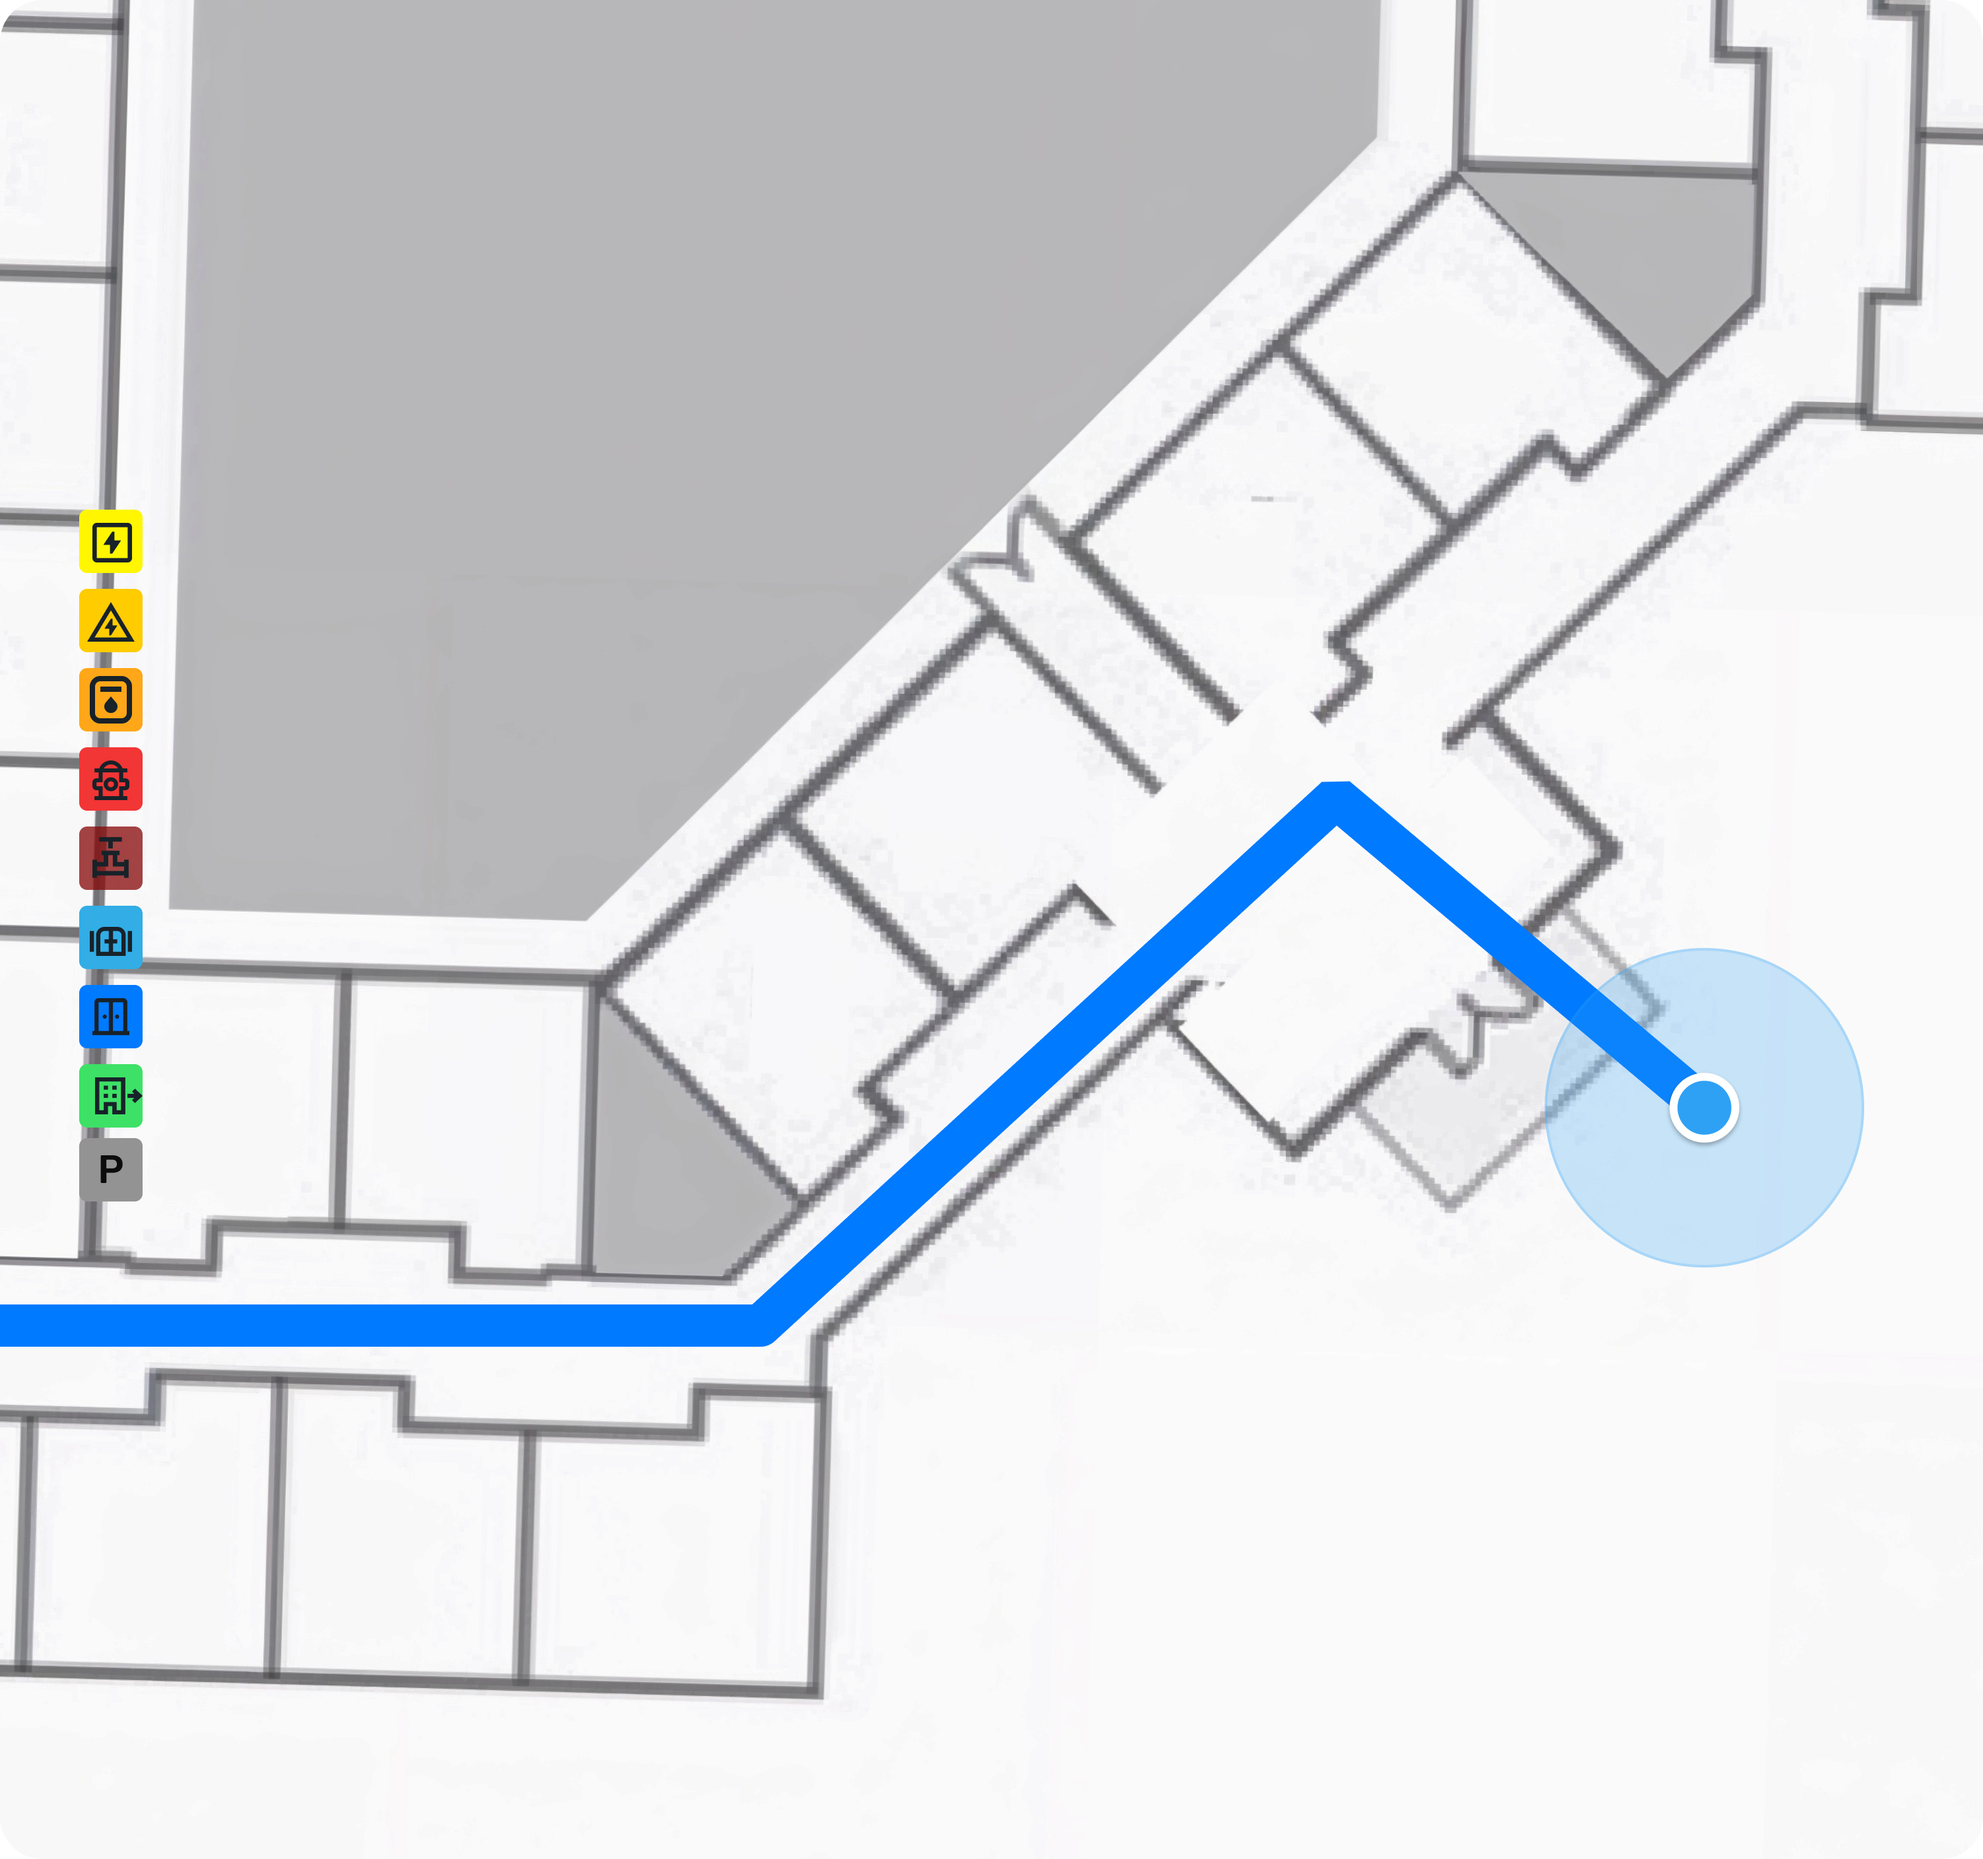
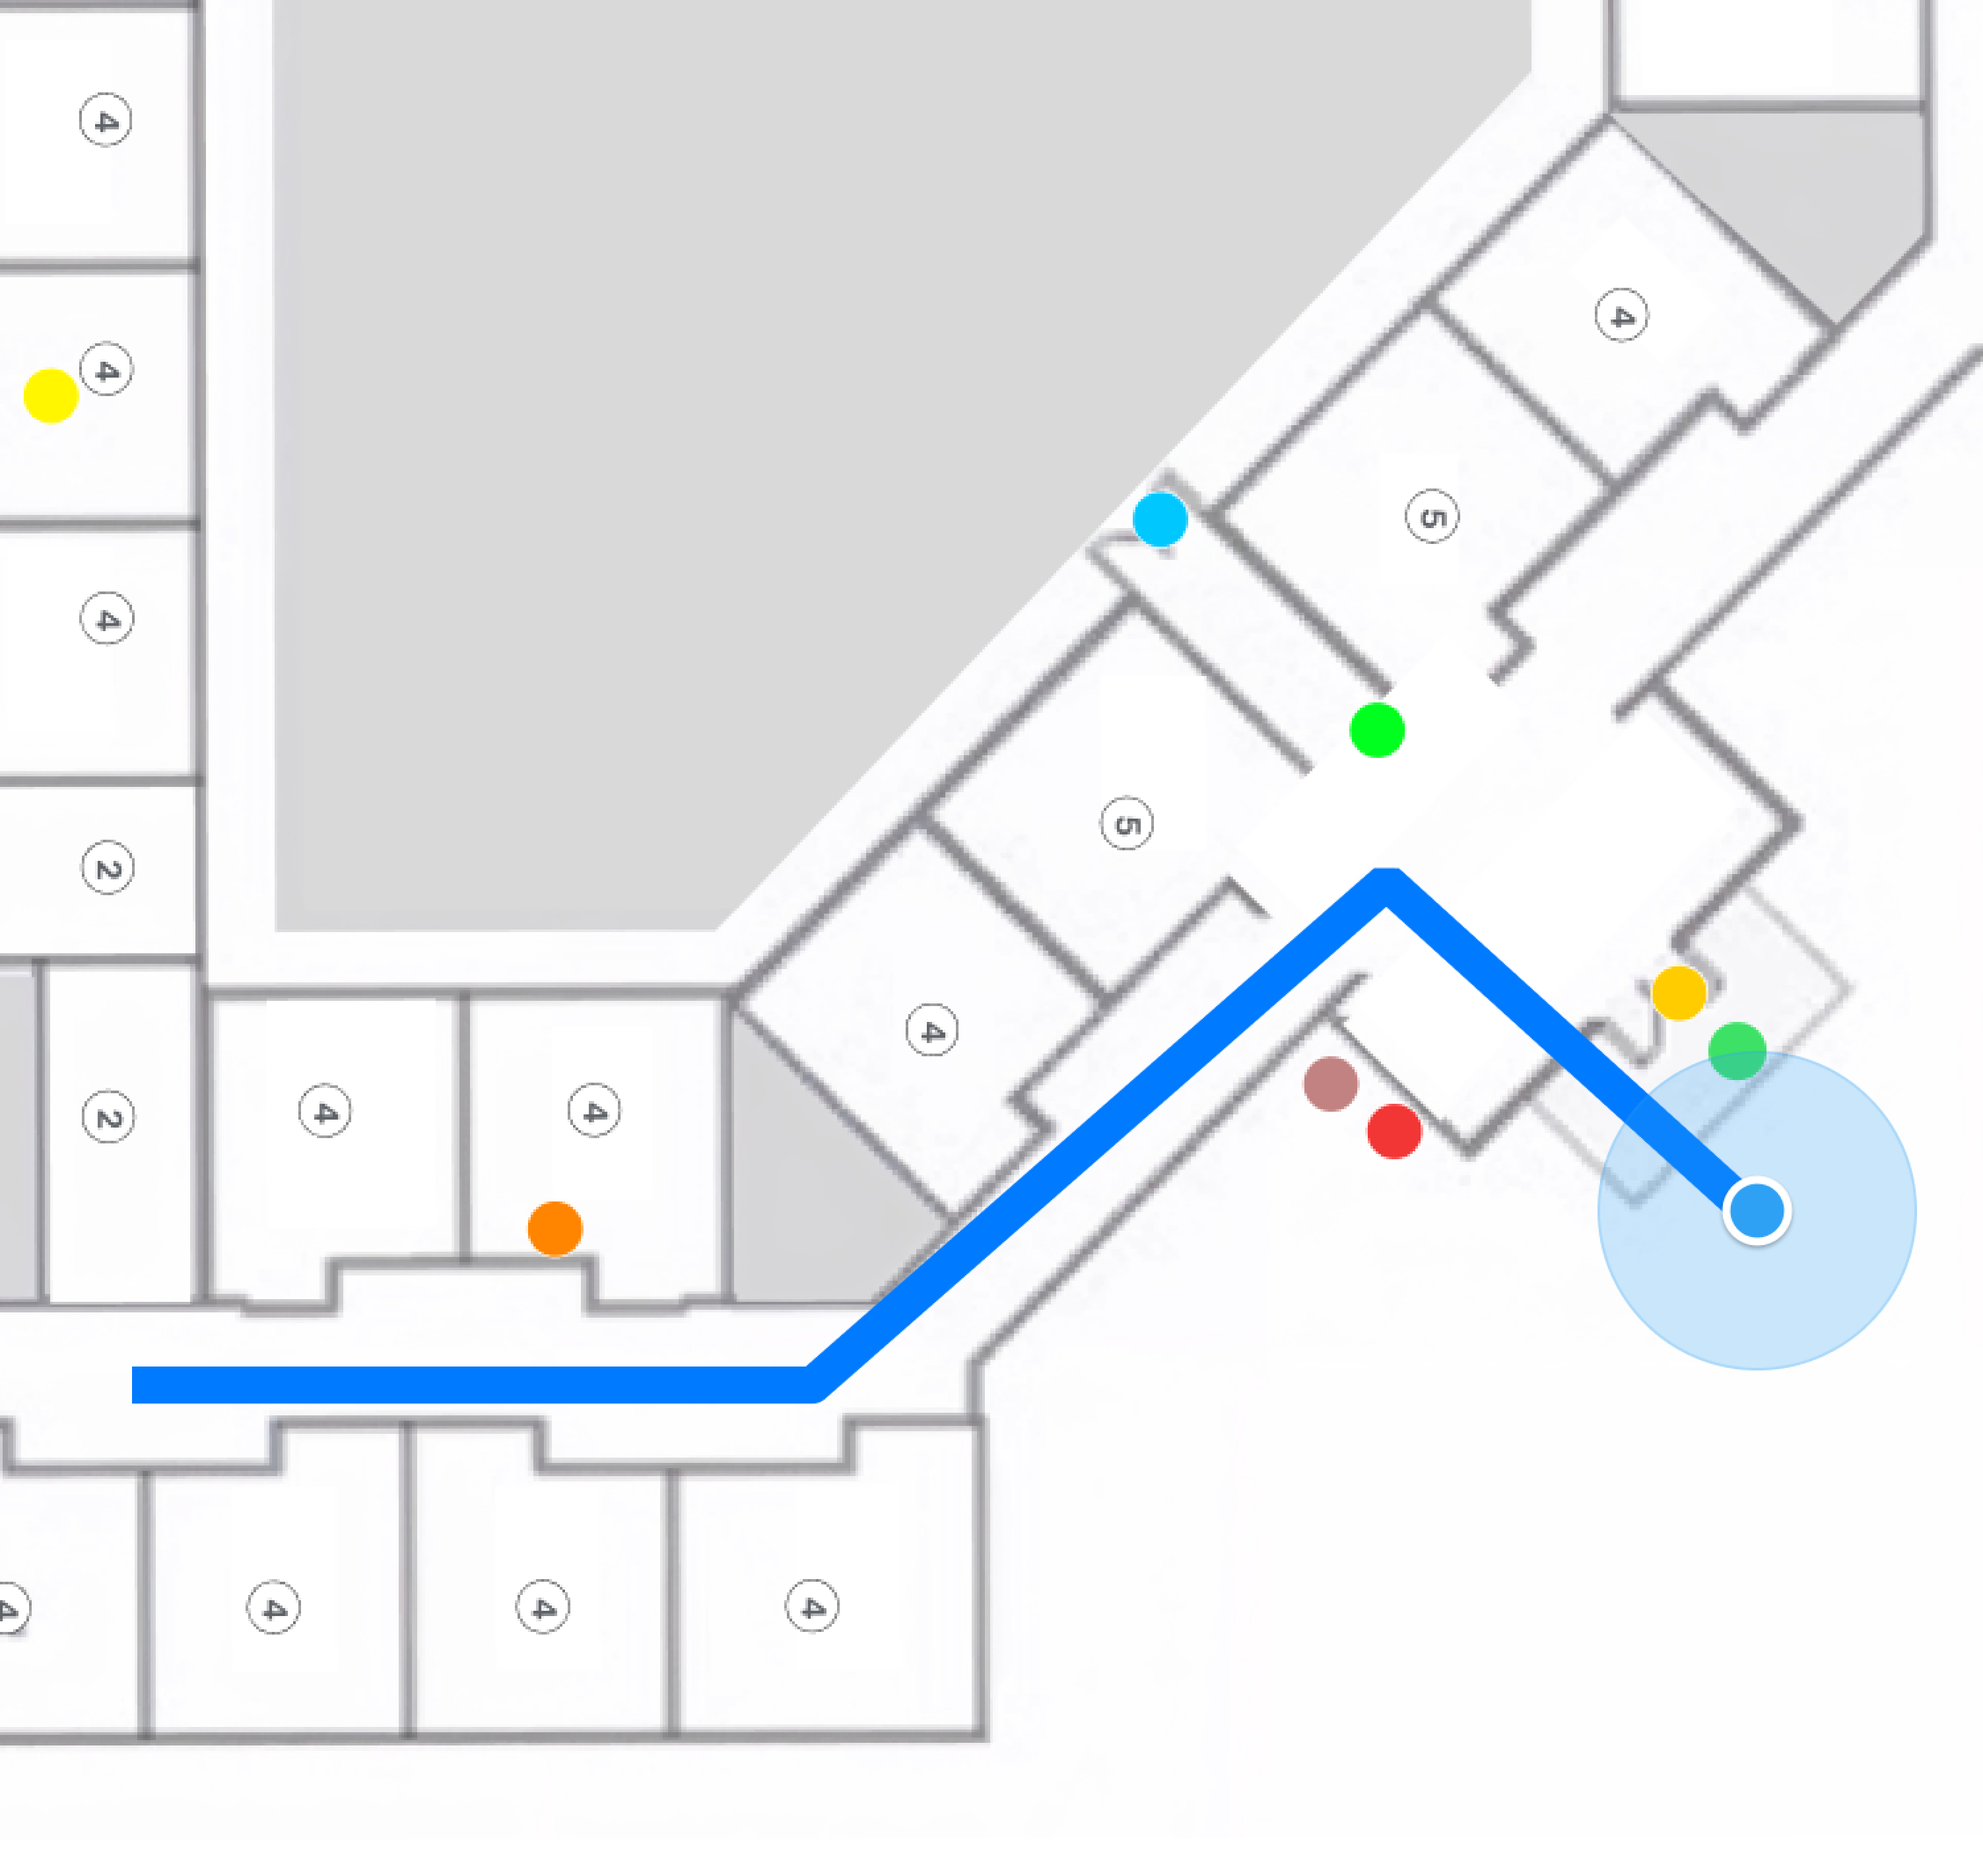
הוספת מספר אסירים בתאים

diff --git a/src/components/Map.jsx b/src/components/Map.jsx
@@ -86,9 +86,10 @@ const Map = ({ setReports, setHighlighted, isWaringOpoup }) => {
   const [taimList, setTaimList] = useState(TaimLst);
   const [locationMarker, setLocationMarker] = useState(null);
   const [zoomMap, setZoomMap] = useState(false);
+  const [polilineLst, setPolilineLst] = useState([]);
 
   const mapRef = useRef();
- 
+
 
   const Parking = ({ position, index, iconKey }) => {
 
@@ -188,7 +189,7 @@ const Map = ({ setReports, setHighlighted, isWaringOpoup }) => {
         if (activeAction && activeAction.activeIcon) {
           const newMarker = event.latlng;
           console.log(event.latlng);
-    
+
           const icon = L.divIcon({
             className: "custom",
             html: `<div class="action-mark"><img src="${activeAction.activeIcon}" style=" height: 20px;, width:20px;"  /></div>`, // חניה שמאלית למטה
@@ -201,11 +202,13 @@ const Map = ({ setReports, setHighlighted, isWaringOpoup }) => {
             timeStyle: 'short'
           });
 
-          const newReport = { id: Date.now(),
-             text: activeAction.reportText, 
-             isRecording: false, 
-             profilePic: activeAction.profilePic ,
-             time: timeSent }
+          const newReport = {
+            id: Date.now(),
+            text: activeAction.reportText,
+            isRecording: false,
+            profilePic: activeAction.profilePic,
+            time: timeSent
+          }
 
           setReports((prevReports) => [
             ...prevReports,
@@ -221,9 +224,9 @@ const Map = ({ setReports, setHighlighted, isWaringOpoup }) => {
     });
   };
 
- // הנקודה של האש 
+  // הנקודה של האש 
   const [activeMessage, setActiveMessage] = useState(null)
-  const [popupMessage, setPopupMessage] = useState(""); 
+  const [popupMessage, setPopupMessage] = useState("");
 
   const handleOnClickOnParking = (parkingName) => {
     console.log(`Clicked on: ${parkingName}`);
@@ -231,7 +234,7 @@ const Map = ({ setReports, setHighlighted, isWaringOpoup }) => {
 
     const { message, arrow } = parkingMessages[parkingName]; // נשלוף גם את ההודעה וגם את סוג החץ
     setActiveMessage(message);
-    setPopupMessage({ message, arrow }); 
+    setPopupMessage({ message, arrow });
 
     if (activeRoute === parkingName) {
       setActiveRoute(null);
@@ -248,13 +251,19 @@ const Map = ({ setReports, setHighlighted, isWaringOpoup }) => {
 
       setActiveRoute(parkingName);
       setLocationMarker(route[0]);
-      if (route && mapRef.current) {
-        const map = mapRef.current;
-        const polyline = L.polyline(route.map((point) => [point.lat, point.lng]), {
-          color: '#007AFF',
-          weight: 5,
-          opacity: 0.7,
-        }).addTo(map);
+      if (route && mapRef.current && !zoomMap) {
+        const polyline = {
+          positions: route.map((point) => [point.lat, point.lng]),
+          pathOptions:
+          {
+            color: '#007AFF',
+            weight: 5,
+            opacity: 0.7
+          }
+        }
+        let lst = polilineLst;
+        lst.push(polyline)
+        setPolilineLst(lst)
       }
     }
   };
@@ -325,8 +334,8 @@ const Map = ({ setReports, setHighlighted, isWaringOpoup }) => {
     parking4: { message: 'לך 300 מטר לכיוון מקור השריפה, 3 דלתות ושער 1 בדרך', arrow: 'rightArrow' },
     parking5: { message: 'לך 700 מטר לכיוון מקור השריפה, 2 דלתות ושער 1 בדרך', arrow: 'leftArrow' }
   };
-  
- 
+
+
   const LocationIcon = () => {
     const map = useMap();
     const [locationIconSize, setLocationIconSize] = useState({ width: 40, height: 40 });
@@ -371,7 +380,7 @@ const Map = ({ setReports, setHighlighted, isWaringOpoup }) => {
   const handleClosePopup = () => {
     setPopupMessage(""); // לסגור את ההודעה
   };
-  
+
   return (
     <div className='map'>
       <ActionsBar activeAction={activeAction} setActiveAction={setActiveAction} />
@@ -386,7 +395,7 @@ const Map = ({ setReports, setHighlighted, isWaringOpoup }) => {
         ref={mapRef}
       >
         {!isWaringOpoup && <AlertWithToastify />}
-        <ShowWay setZoomMap={setZoomMap}  />
+        <ShowWay setZoomMap={setZoomMap} />
         <BaseMap zoomMap={zoomMap} />
         {!zoomMap &&
           markers.map((marker, index) => (
@@ -400,22 +409,21 @@ const Map = ({ setReports, setHighlighted, isWaringOpoup }) => {
 
         {/* {showParking && !zoomMap && (
         <BaseMap /> */}
-        
-        {markers.map((marker, index) => (
+
+        {!zoomMap && markers.map((marker, index) => (
           <Marker key={index} {...marker} />
         ))}
-        {locationMarker && <LocationIcon />}
-        <ParkingLegendMark handleParkingClick={() => setShowParking(prev => !prev)} />
-  
-        {showParking && (
+        {locationMarker && !zoomMap && showParking && <LocationIcon />}
+
+        {showParking && !zoomMap && (
           <>
             {parkingPoints.map((point, index) => (
               <>
-                <Parking 
-                  index={index} 
-                  key={index} 
-                  position={[point.lat, point.lng]} 
-                  iconKey={point.icon} 
+                <Parking
+                  index={index}
+                  key={index}
+                  position={[point.lat, point.lng]}
+                  iconKey={point.icon}
                 />
               </>
             ))}
@@ -423,18 +431,22 @@ const Map = ({ setReports, setHighlighted, isWaringOpoup }) => {
         )}
 
         {!zoomMap && <FireIcon />}
-        {/* {!zoomMap && <Taim handleClickZone={handleClickZone} taimList={taimList} />} */}
-  
+        {showParking && !zoomMap && polilineLst.map((pol, index) => (
+          <Polyline  {...pol}>
+          </Polyline >
+        ))}
+
+
         {/* הצגת ההודעה הקופצת */}
         {popupMessage && <PopupMessage message={popupMessage} onClose={handleClosePopup} />}
-  
-      
+
+
         {/* <Taim handleClickZone={handleClickZone} taimList={taimList} /> */}
         <MapClickHandler />
       </MapContainer>
     </div>
   );
-  
+
 };
 
 export default Map;
